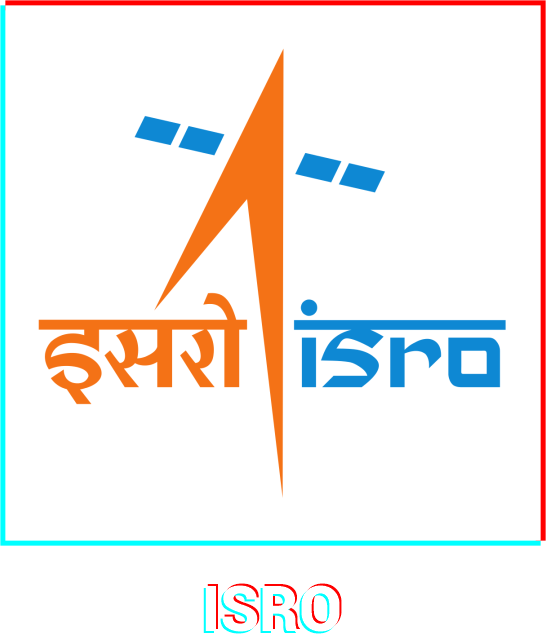
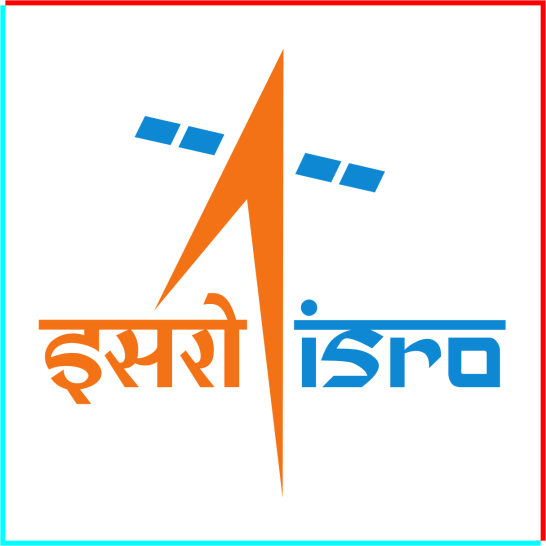
Updated images, new preloader and minor changes

diff --git a/parvaah/parvaah.css b/parvaah/parvaah.css
@@ -4,22 +4,21 @@
   z-index: 1;
   color: white;
 }
-
 .row {
   padding: 20px;
   height: 300px;
 }
 
 /* ----------------------volunteer button-------------------------- */
-.volunteer__button ul li a{
+.volunteer__button ul li a {
   color: white;
 }
 
-li{
+li {
   list-style-type: none;
 }
 
-.volunteer__button{
+.volunteer__button {
   margin: auto;
   height: auto;
   width: auto;
@@ -33,7 +32,7 @@ li{
   padding-top: 7.5vw;
   width: 70vw;
   color: #f1f1f1;
-  font-family: 'Roboto', Arial, Helvetica, sans-serif;
+  font-family: "Roboto", Arial, Helvetica, sans-serif;
   font-size: 1.2vw;
   font-weight: 300;
 }
@@ -82,8 +81,8 @@ li{
   width: 90vw;
   padding: 0 10vw;
   transform: translateX(-5vw);
-  margin-right: 4vw
-} 
+  margin-right: 4vw;
+}
 
 .card-odd,
 .card-even {
@@ -104,7 +103,7 @@ li{
   width: 70%;
   float: right;
   text-align: left;
-  color: #f1f1f1; 
+  color: #f1f1f1;
   text-transform: capitalize;
   font-size: 1rem;
 }
@@ -130,7 +129,7 @@ li{
   width: 100%;
 }
 
-@media screen and (max-width:800px) {
+@media screen and (max-width: 800px) {
   .parvaah-content {
     padding-top: 0vw;
     margin: auto;
@@ -141,7 +140,7 @@ li{
     flex-direction: column;
     margin: auto;
     position: relative;
-    left: -3%
+    left: -3%;
   }
 
   .image-l {
@@ -150,7 +149,7 @@ li{
     height: auto;
     margin-top: 10%;
   }
-  
+
   .image-r {
     float: none;
     width: 100%;
@@ -160,27 +159,28 @@ li{
   .right {
     border: none;
   }
-  .card-container{
+  .card-container {
     display: flex;
     flex-direction: column;
     width: 100vw;
-    margin-left:10vw;
+    margin-left: 10vw;
   }
 
-  .card-odd{
-      display: flex;
-      flex-direction: column;
-      padding: 4rem 0;
+  .card-odd {
+    display: flex;
+    flex-direction: column;
+    padding: 4rem 0;
   }
-  .card-even{
-      display: flex;
-      flex-direction: column-reverse;
+  .card-even {
+    display: flex;
+    flex-direction: column-reverse;
   }
-  .card-container img{
-      width: 60vw;
+  .card-container img {
+    width: 60vw;
   }
-  .text-even,.text-odd{
+  .text-even,
+  .text-odd {
     text-align: center;
-    margin-right:5vw;
+    margin-right: 5vw;
   }
-} 
+}

diff --git a/index.html b/index.html
@@ -38,8 +38,8 @@
   <body>
     
     <!-- Preloader -->
-    <div class="preloader-anim">
-    <svg version="1.1" id="preloader" x="0px" y="0px" width="240px" height="120px" viewBox="0 0 240 120">
+    <div class="preloader-anim"><div class="loader-gif"></div></div>
+    <!-- <svg version="1.1" id="preloader" x="0px" y="0px" width="240px" height="120px" viewBox="0 0 240 120">
       
       <path id="loop-normal" class="st1" d="M120.5,60.5L146.48,87.02c14.64,14.64,38.39,14.65,53.03,0s14.64-38.39,0-53.03s-38.39-14.65-53.03,0L120.5,60.5
       L94.52,87.02c-14.64,14.64-38.39,14.64-53.03,0c-14.64-14.64-14.64-38.39,0-53.03c14.65-14.64,38.39-14.65,53.03,0z">
@@ -83,7 +83,7 @@
           <mpath xlink:href="#loop-offset"/>
       </animateMotion>  
       </svg>
-    </div>  
+    </div>   -->
   
   <div class="outer hidden">
     <!-- Navbar -->

diff --git a/parvaah/index.html b/parvaah/index.html
@@ -157,7 +157,7 @@
     <!--abhiyantriki gif-->
     <div class="container">
       <div>
-        <h1 class="abhiyantriki__gif glitch" data-text="Parvaah">
+        <h1 class="glitch" data-text="Parvaah">
           Parvaah
         </h1>
       </div>
@@ -189,7 +189,7 @@
           <div class="volunteer__button">
             <ul>
               <li class="nav-item">
-                <a href="events/index.html" class="nav-link nav-btn"><span>Volunteer</span></a>
+                <a href="../events/index.html" class="nav-link nav-btn"><span>Volunteer</span></a>
               </li>
             </ul>
           </div>

diff --git a/script.js b/script.js
@@ -1,8 +1,14 @@
 setTimeout(() => {
     $(".preloader-anim").addClass("hidden");
     $(".outer").removeClass('hidden');
-}, 5000);
+    $(".loader-gif").removeClass(".loader-gif");
+}, 4000);
+// $(window).load(function() {
+        
+//   $(".loader").fadeOut("slow");
+//   $(".loader").removeClass(".loader");
 
+// });
 // Carousel
 function moveToSelected(element) {
 

diff --git a/events/index.html b/events/index.html
@@ -417,7 +417,7 @@
       <br>
       <div class="mobile-social-media-inner-section">
         <a href=" https://www.instagram.com/kjscelive/"
-          ><i class="fab fa-instagram"></i
+          ><i class="fa fa-instagram"></i
         ></a>
         <a href="https://www.facebook.com/kjsceabhiyantriki/?ref=br_rs"
           ><i class="fab fa-facebook"></i

diff --git a/home.css b/home.css
@@ -4,6 +4,16 @@
 .inner {
   margin: auto 5%;
 }
+.loader-gif {
+  position: fixed;
+  left: 0px;
+  top: 0px;
+  width: 100%;
+  height: 100%;
+  z-index: 9999;
+  background: url("./img/loadu3.gif") 50% 50% no-repeat black;
+  background-size: contain;
+}
 nav {
   margin: 0 !important;
 }

diff --git a/styles.css b/styles.css
@@ -61,7 +61,7 @@ body {
   display: flex;
   justify-content: end;
   align-items: end;
-  animation: loading 5s ease-in-out forwards;
+  animation: loading 4s ease-in-out forwards;
 }
 svg {
   width: 200px;
